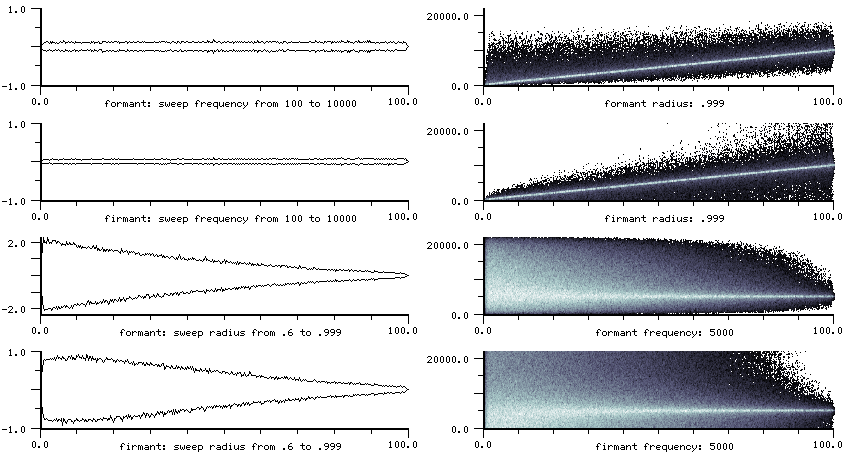
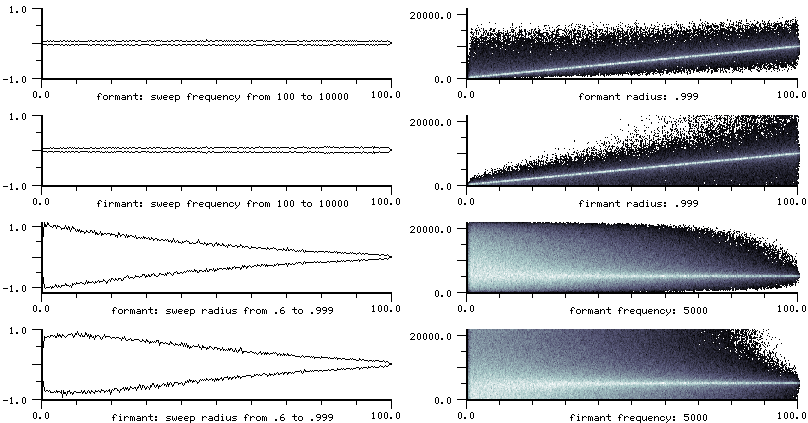
bugs

diff --git a/sndclm.html b/sndclm.html
@@ -3667,7 +3667,7 @@ If "radius" is .99, you get a glass-harmonica effect; if it's less, you get more
 </td></tr></table>
 
 <p>The clm-3 formant gain calculation was incorrect.  To translate from the old
-formant to the new one, multiply the old gain by (sin (hz-&gt;radians frequency)).
+formant to the new one, multiply the old gain by (* 2 (sin (hz-&gt;radians frequency))).
 </p>
 
 <p>If you change the radius or frequency rapidly, the formant generator will either produce
@@ -3679,22 +3679,22 @@ example that puts formant on the edge of disaster (the glitch is about to explod
 <tr>
 <td bgcolor="#fafafa">
 <pre>
-(with-sound (:channels 2)
+(<a class=quiet href="sndscm.html#wsdoc">with-sound</a> (:channels 2)
   (let* ((dur 3)
-	 (samps (seconds->samples dur))
-	 (flta (make-formant 1000 .999))
-	 (fltc (make-firmant 1000 .999))
-	 (vib (make-oscil 10))
-	 (index (hz->radians 100))
-	 (click (make-ncos 40 500)))
+	 (samps (<a class=quiet href="#secondstosamples">seconds-&gt;samples</a> dur))
+	 (flta (<em class=red>make-formant</em> 1000 .999))
+	 (fltc (<em class=red>make-firmant</em> 1000 .999))
+	 (vib (<a class=quiet href="#make-oscil">make-oscil</a> 10))
+	 (index (<a class=quiet href="#hztoradians">hz-&gt;radians</a> 100))
+	 (click (<a class=quiet href="#make-ncos">make-ncos</a> 40 500)))
     (run
      (lambda ()
        (do ((i 0 (1+ i)))
 	   ((= i samps))
-	 (let* ((vib (* index (+ 1 (oscil vib))))
-		(pulse (ncos click)))
-	   (outa i (* 10 (formant flta pulse vib)))
-	   (outb i (* 10 (firmant fltc pulse vib)))
+	 (let* ((vib (* index (+ 1 (<a class=quiet href="#oscil">oscil</a> vib))))
+		(pulse (<a class=quiet href="#ncos">ncos</a> click)))
+	   (<a class=quiet href="#outa">outa</a> i (* 10 (<em class=red>formant</em> flta pulse vib)))
+	   (<a class=quiet href="#outa">outb</a> i (* 10 (<em class=red>firmant</em> fltc pulse vib)))
 	   ))))))
 </pre>
 </td><td>

diff --git a/clm.c b/clm.c
@@ -4834,7 +4834,7 @@ static void mus_set_formant_radius_and_frequency_in_radians(mus_any *ptr, Float 
   gen->radius = radius;
   gen->frequency = freq_in_radians;
   gen->rr = radius * radius;
-  gen->gain = (1.0 - gen->rr); 
+  gen->gain = (1.0 - gen->rr) * 0.5; 
   gen->fdbk = 2.0 * radius * cos(freq_in_radians);
 }
 
